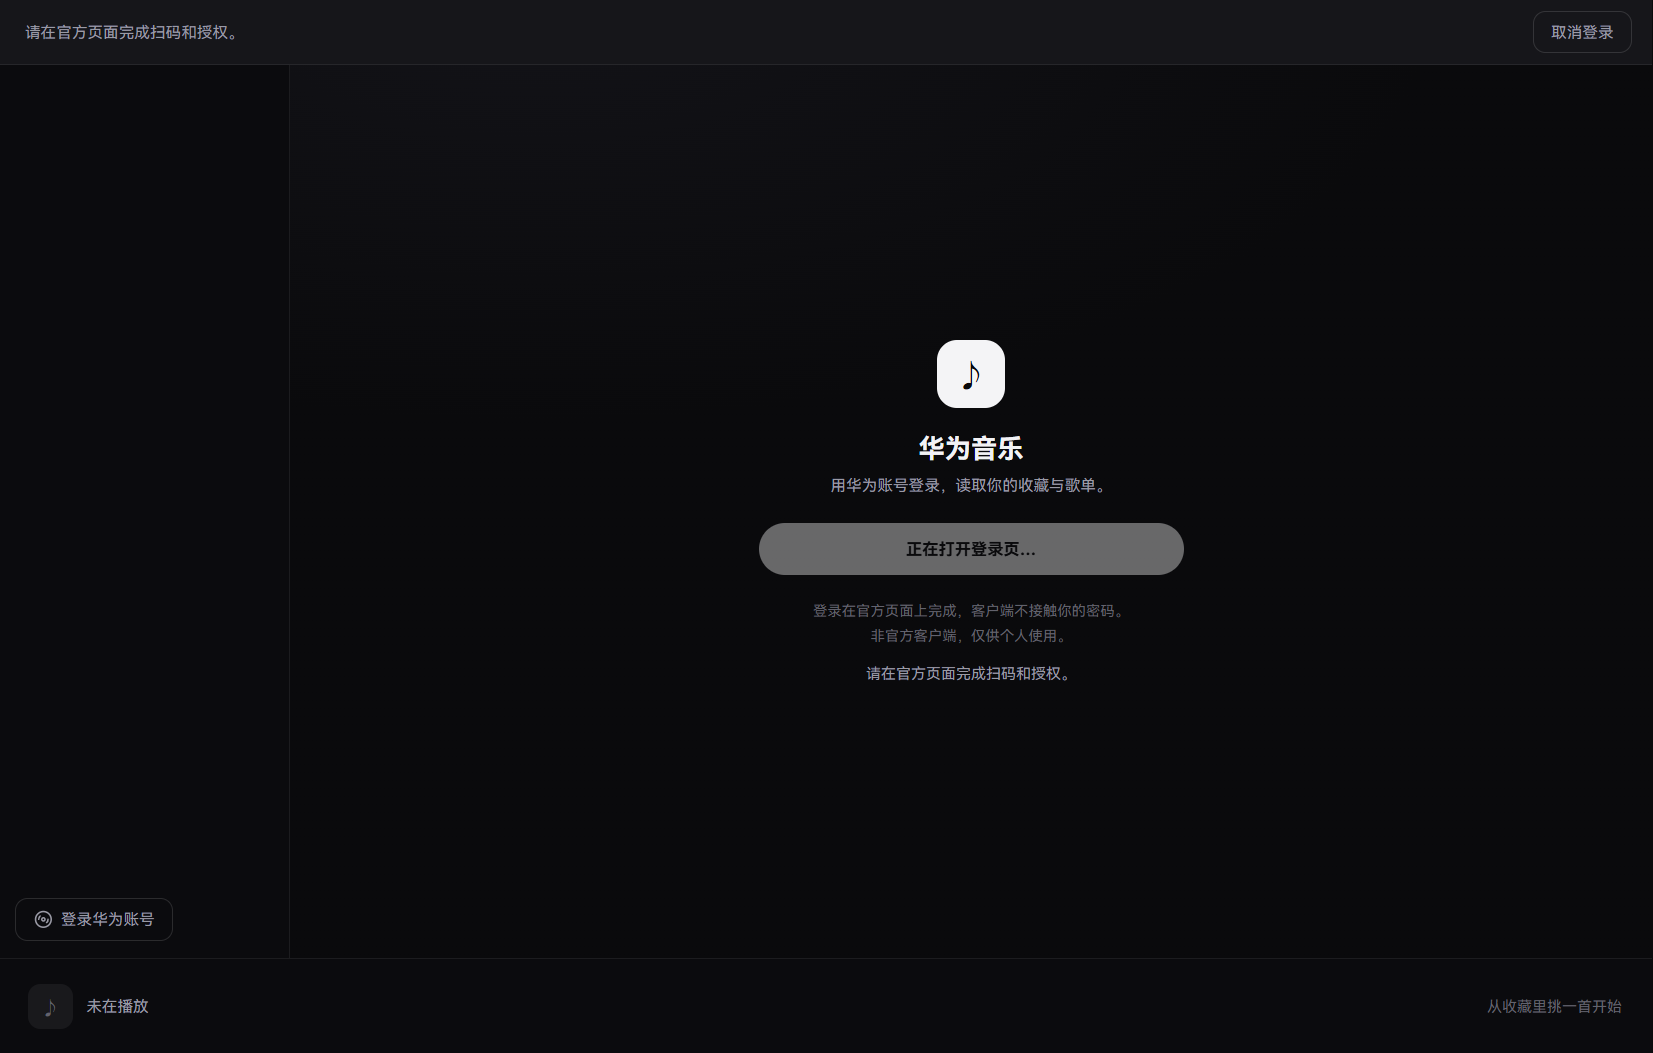
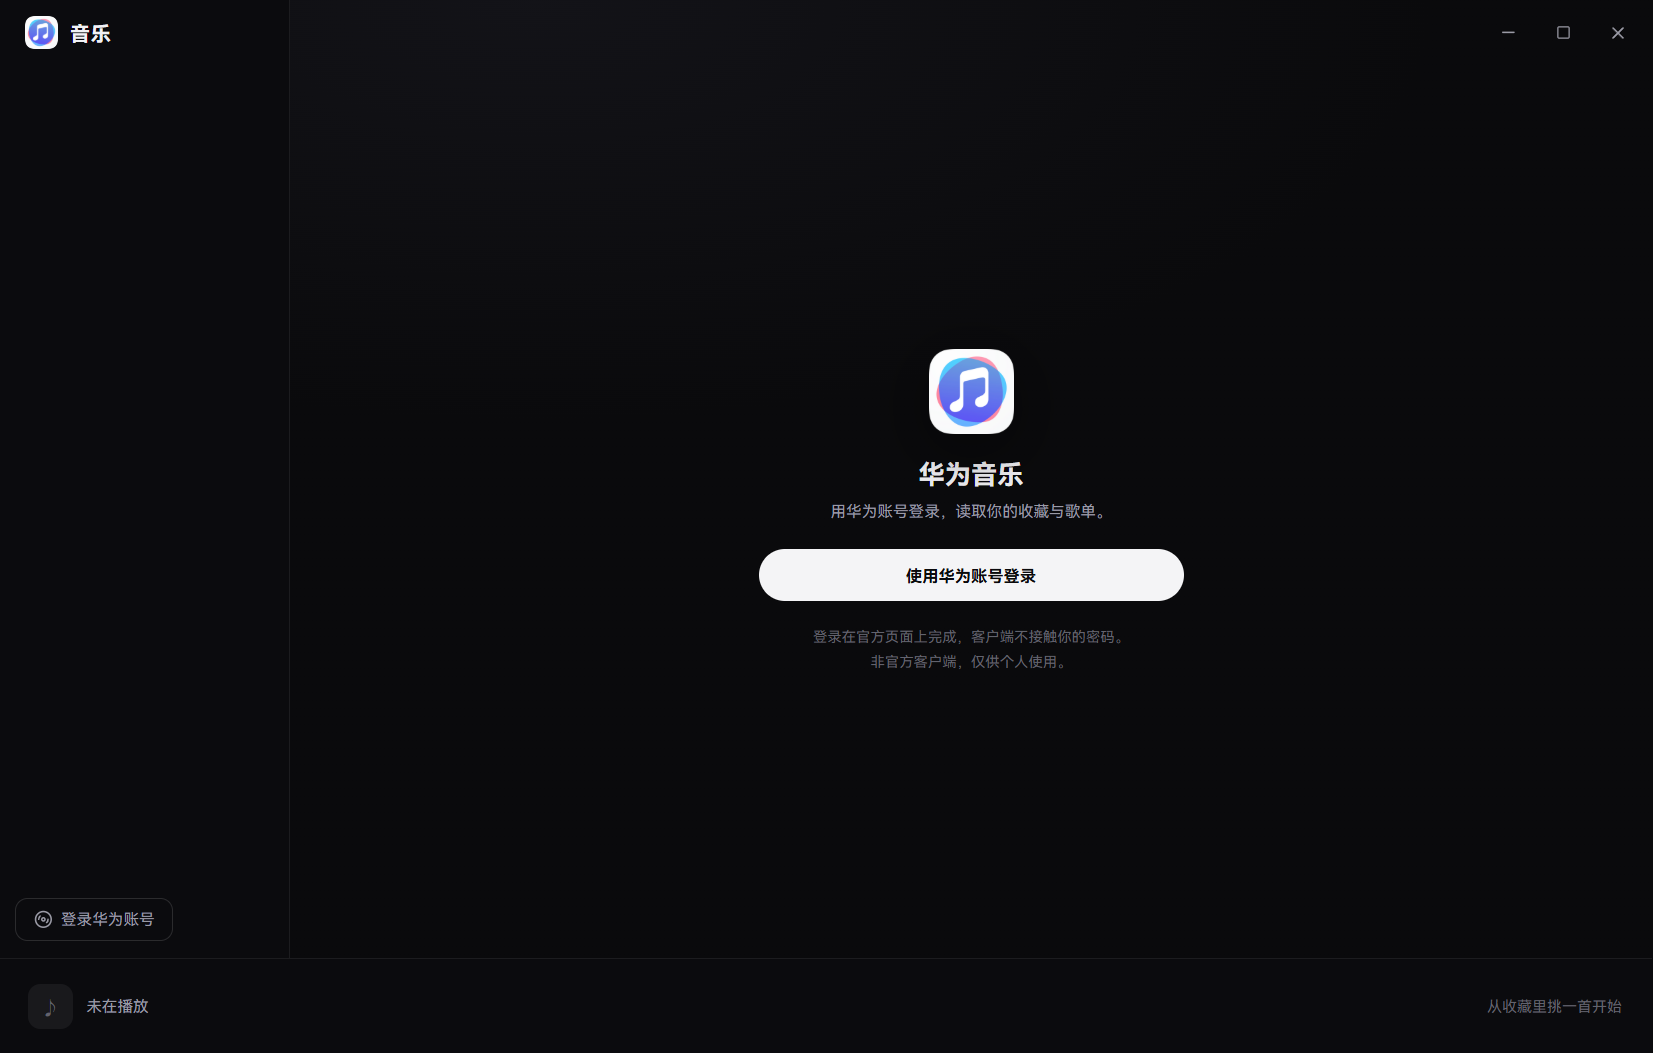
polish(login): 未登录页中间那块换成应用图标本体
- 原来是白底 + '♪' 字符的占位，和左上角 brand 不是一套
- 改用同一个 app-icon.png（自带白色圆角底板与透明四角），68px + drop-shadow
- login.png 截图更新

Changed region(s): [[0.4319, 0.3039, 0.7405, 0.6686], [0.0, 0.0, 0.1234, 0.0608], [0.9256, 0.0, 0.9873, 0.0608]]

diff --git a/src/renderer/screens.tsx b/src/renderer/screens.tsx
@@ -1,7 +1,8 @@
-import { useMemo } from 'react';
+import { useMemo } from 'react';
 import { ChevronRight, Play, Search } from 'lucide-react';
 import type { Track } from '../shared/types';
 import { artistsOf, Cover, EmptyState, formatTime, SectionHeader, SkeletonRows, TrackRow } from './ui';
+import logo from './assets/app-icon.png';
 
 type PlayHandler = (tracks: Track[], index: number) => void;
 
@@ -243,7 +244,7 @@ export function LoginScreen({
   return (
     <div className="login-screen">
       <div className="login-card">
-        <div className="login-mark">♪</div>
+        <img src={logo} alt="" className="login-mark" />
         <h1>华为音乐</h1>
         <p className="login-desc">用华为账号登录，读取你的收藏与歌单。</p>
         <button type="button" className="primary-button login-button" onClick={onLogin} disabled={pending}>

diff --git a/src/renderer/styles.css b/src/renderer/styles.css
@@ -1427,16 +1427,14 @@ section {
   text-align: center;
 }
 
+/* 登录页的标记用的就是应用图标本体（和左上角 brand 同一个 asset），
+   PNG 自带白色圆角底板和透明四角，不要再套一层背景/圆角。 */
 .login-mark {
-  display: grid;
-  place-items: center;
-  width: 54px;
-  height: 54px;
+  display: block;
+  width: 68px;
+  height: 68px;
   margin: 0 auto 18px;
-  border-radius: 16px;
-  background: #f4f4f6;
-  color: #0a0a0c;
-  font-size: 25px;
+  filter: drop-shadow(0 12px 26px rgba(0, 0, 0, 0.5));
 }
 
 .login-card h1 {
